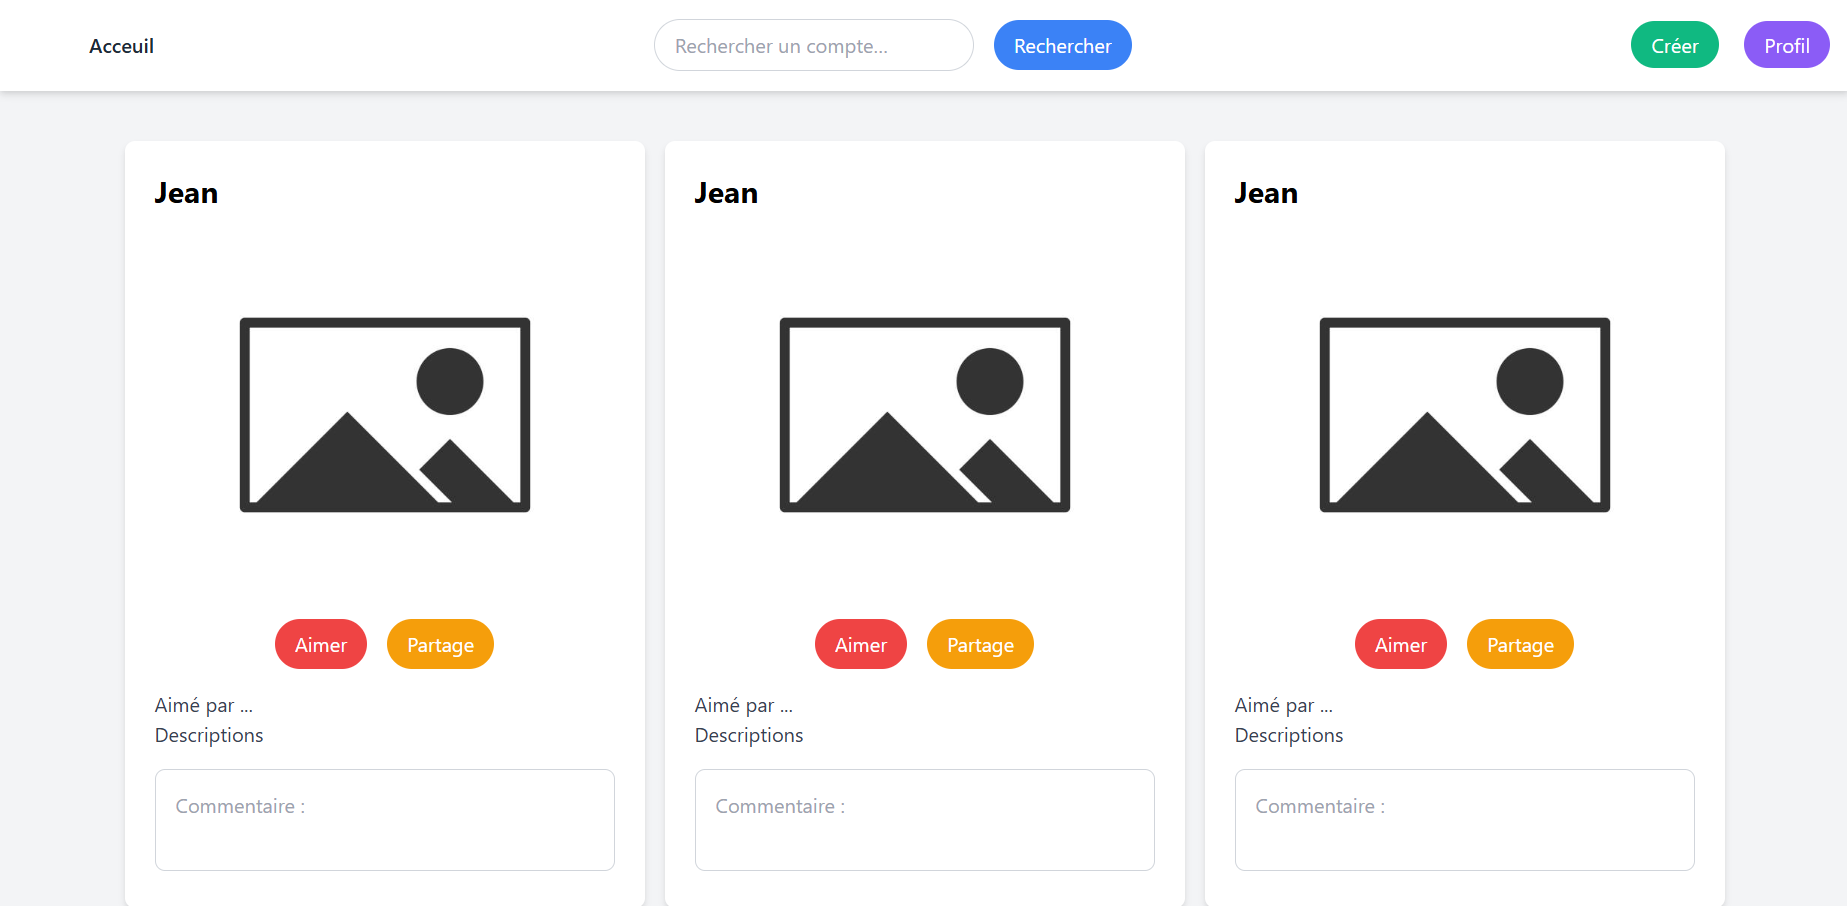
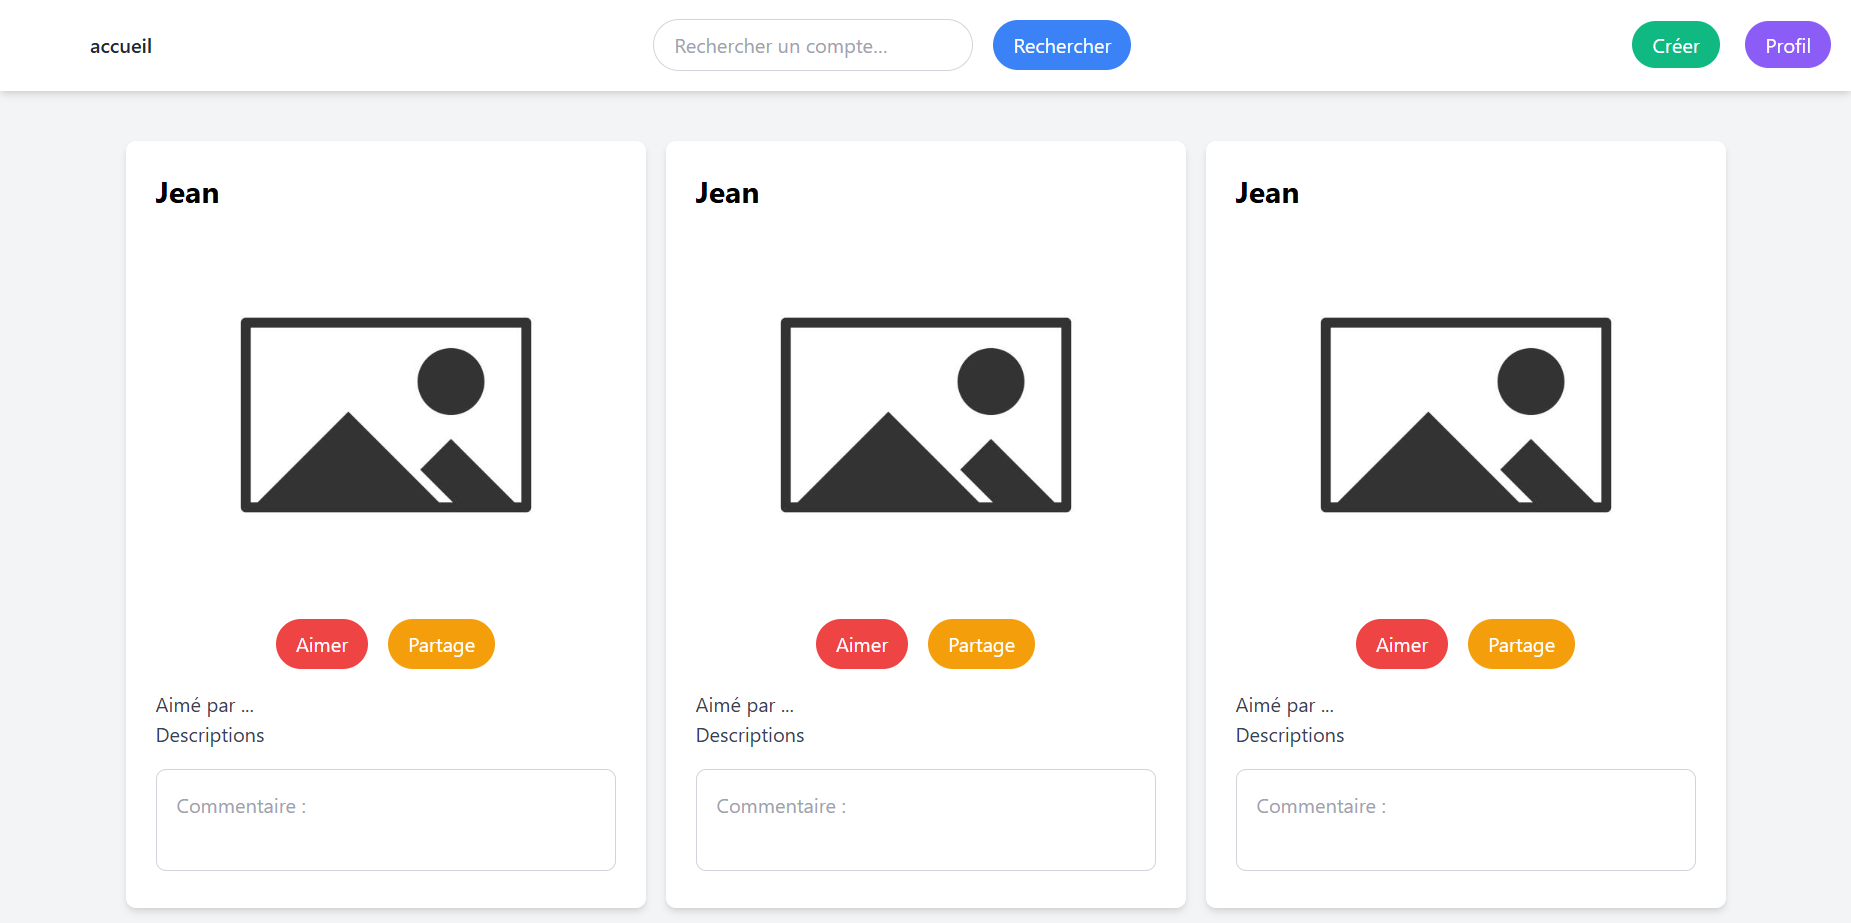
.

diff --git a/index.html b/index.html
@@ -359,40 +359,32 @@
                             <thead>
                                 <tr>
                                     <th class="py-2 px-4 border-b border-gray-200 bg-gray-50 text-left text-xs font-semibold text-gray-600 uppercase tracking-wider">Compétence</th>
-                                    <th class="py-2 px-4 border-b border-gray-200 bg-gray-50 text-left text-xs font-semibold text-gray-600 uppercase tracking-wider">Niveau</th>
+                                    <th class="py-2 px-4 border-b border-gray-200 bg-gray-50 text-center text-xs font-semibold text-gray-600 uppercase tracking-wider">Validation</th>
                                 </tr>
                             </thead>
                             <tbody>
                                 <tr>
                                     <td class="py-2 px-4 border-b border-gray-200">Recenser et identifier les ressources numériques</td>
-                                    <td class="py-2 px-4 border-b border-gray-200">
-                                        <div class="w-full bg-gray-200 rounded-full h-2.5">
-                                            <div class="bg-blue-600 h-2.5 rounded-full" style="width: 85%"></div>
-                                        </div>
+                                    <td class="py-2 px-4 border-b border-gray-200 text-center">
+                                        <i class="fas fa-check-circle text-blue-600 text-xl"></i>
                                     </td>
                                 </tr>
                                 <tr>
                                     <td class="py-2 px-4 border-b border-gray-200">Vérifier le respect des règles d’utilisation des ressources numériques                                    </td>
-                                    <td class="py-2 px-4 border-b border-gray-200">
-                                        <div class="w-full bg-gray-200 rounded-full h-2.5">
-                                            <div class="bg-blue-600 h-2.5 rounded-full" style="width: 60%"></div>
-                                        </div>
+                                    <td class="py-2 px-4 border-b border-gray-200 text-center">
+                                        <i class="fas fa-check-circle text-blue-600 text-xl"></i>
                                     </td>
                                 </tr>
                                 <tr>
                                     <td class="py-2 px-4 border-b border-gray-200">Modéliser une solution applicative</td>
-                                    <td class="py-2 px-4 border-b border-gray-200">
-                                        <div class="w-full bg-gray-200 rounded-full h-2.5">
-                                            <div class="bg-blue-600 h-2.5 rounded-full" style="width: 70%"></div>
-                                        </div>
+                                    <td class="py-2 px-4 border-b border-gray-200 text-center">
+                                        <i class="fas fa-check-circle text-blue-600 text-xl"></i>
                                     </td>
                                 </tr>
                                 <tr>
                                     <td class="py-2 px-4 border-b border-gray-200">Rédiger des documentations technique et d’utilisation d’une solution applicative</td>
-                                    <td class="py-2 px-4 border-b border-gray-200">
-                                        <div class="w-full bg-gray-200 rounded-full h-2.5">
-                                            <div class="bg-blue-600 h-2.5 rounded-full" style="width: 90%"></div>
-                                        </div>
+                                    <td class="py-2 px-4 border-b border-gray-200 text-center">
+                                        <i class="fas fa-check-circle text-blue-600 text-xl"></i>
                                     </td>
                                 </tr>
                             </tbody>
@@ -459,24 +451,20 @@
                             <thead>
                                 <tr>
                                     <th class="py-2 px-4 border-b border-gray-200 bg-gray-50 text-left text-xs font-semibold text-gray-600 uppercase tracking-wider">Compétence</th>
-                                    <th class="py-2 px-4 border-b border-gray-200 bg-gray-50 text-left text-xs font-semibold text-gray-600 uppercase tracking-wider">Niveau</th>
+                                    <th class="py-2 px-4 border-b border-gray-200 bg-gray-50 text-center text-xs font-semibold text-gray-600 uppercase tracking-wider">Validation</th>
                                 </tr>
                             </thead>
                             <tbody>
                                 <tr>
                                     <td class="py-2 px-4 border-b border-gray-200">Traiter des demandes systèmes, réseau ou applicatifs</td>
-                                    <td class="py-2 px-4 border-b border-gray-200">
-                                        <div class="w-full bg-gray-200 rounded-full h-2.5">
-                                            <div class="bg-blue-600 h-2.5 rounded-full" style="width: 85%"></div>
-                                        </div>
+                                    <td class="py-2 px-4 border-b border-gray-200 text-center">
+                                        <i class="fas fa-check-circle text-blue-600 text-xl"></i>
                                     </td>
                                 </tr>
                                 <tr>
                                     <td class="py-2 px-4 border-b border-gray-200">Réaliser les tests et déployer un service</td>
-                                    <td class="py-2 px-4 border-b border-gray-200">
-                                        <div class="w-full bg-gray-200 rounded-full h-2.5">
-                                            <div class="bg-blue-600 h-2.5 rounded-full" style="width: 80%"></div>
-                                        </div>
+                                    <td class="py-2 px-4 border-b border-gray-200 text-center">
+                                        <i class="fas fa-check-circle text-blue-600 text-xl"></i>
                                     </td>
                                 </tr>
                             </tbody>

diff --git a/insta-meme/content.html b/insta-meme/content.html
@@ -12,7 +12,8 @@
             <a href="index.html" class="mr-4">
                 <img src="../image/Logo.png" alt="" class="w-10">
             </a>
-            <a href="index.html" class="text-gray-800 font-semibold">Acceuil</a>
+            <a href="index.html" class="text-gray-800 font-semibold">
+accueil</a>
         </div>
         <div class="flex items-center">
             <input type="search" placeholder="Rechercher un compte…" class="border border-gray-300 rounded-full px-4 py-2 mr-4 w-64">

diff --git a/insta-meme/create.html b/insta-meme/create.html
@@ -12,7 +12,8 @@
             <a href="index.html" class="mr-4">
                 <img src="../image/Logo.png" alt="" class="w-10">
             </a>
-            <a href="index.html" class="text-gray-800 font-semibold">Acceuil</a>
+            <a href="index.html" class="text-gray-800 font-semibold">
+accueil</a>
         </div>
         <div class="flex items-center">
             <input type="search" placeholder="Rechercher un compte…" class="border border-gray-300 rounded-full px-4 py-2 mr-4 w-64">

diff --git a/insta-meme/index.html b/insta-meme/index.html
@@ -12,7 +12,8 @@
             <a href="index.html" class="mr-4">
                 <img src="../image/Logo.png" alt="" class="w-10">
             </a>
-            <a href="index.html" class="text-gray-800 font-semibold">Acceuil</a>
+            <a href="index.html" class="text-gray-800 font-semibold">
+accueil</a>
         </div>
         <div class="flex items-center">
             <input type="search" placeholder="Rechercher un compte…" class="border border-gray-300 rounded-full px-4 py-2 mr-4 w-64">

diff --git a/insta-meme/user_ac.html b/insta-meme/user_ac.html
@@ -12,7 +12,8 @@
             <a href="index.html" class="mr-4">
                 <img src="../image/Logo.png" alt="" class="w-10">
             </a>
-            <a href="index.html" class="text-gray-800 font-semibold">Acceuil</a>
+            <a href="index.html" class="text-gray-800 font-semibold">
+accueil</a>
         </div>
         <div class="flex items-center">
             <input type="search" placeholder="Rechercher un compte…" class="border border-gray-300 rounded-full px-4 py-2 mr-4 w-64">
